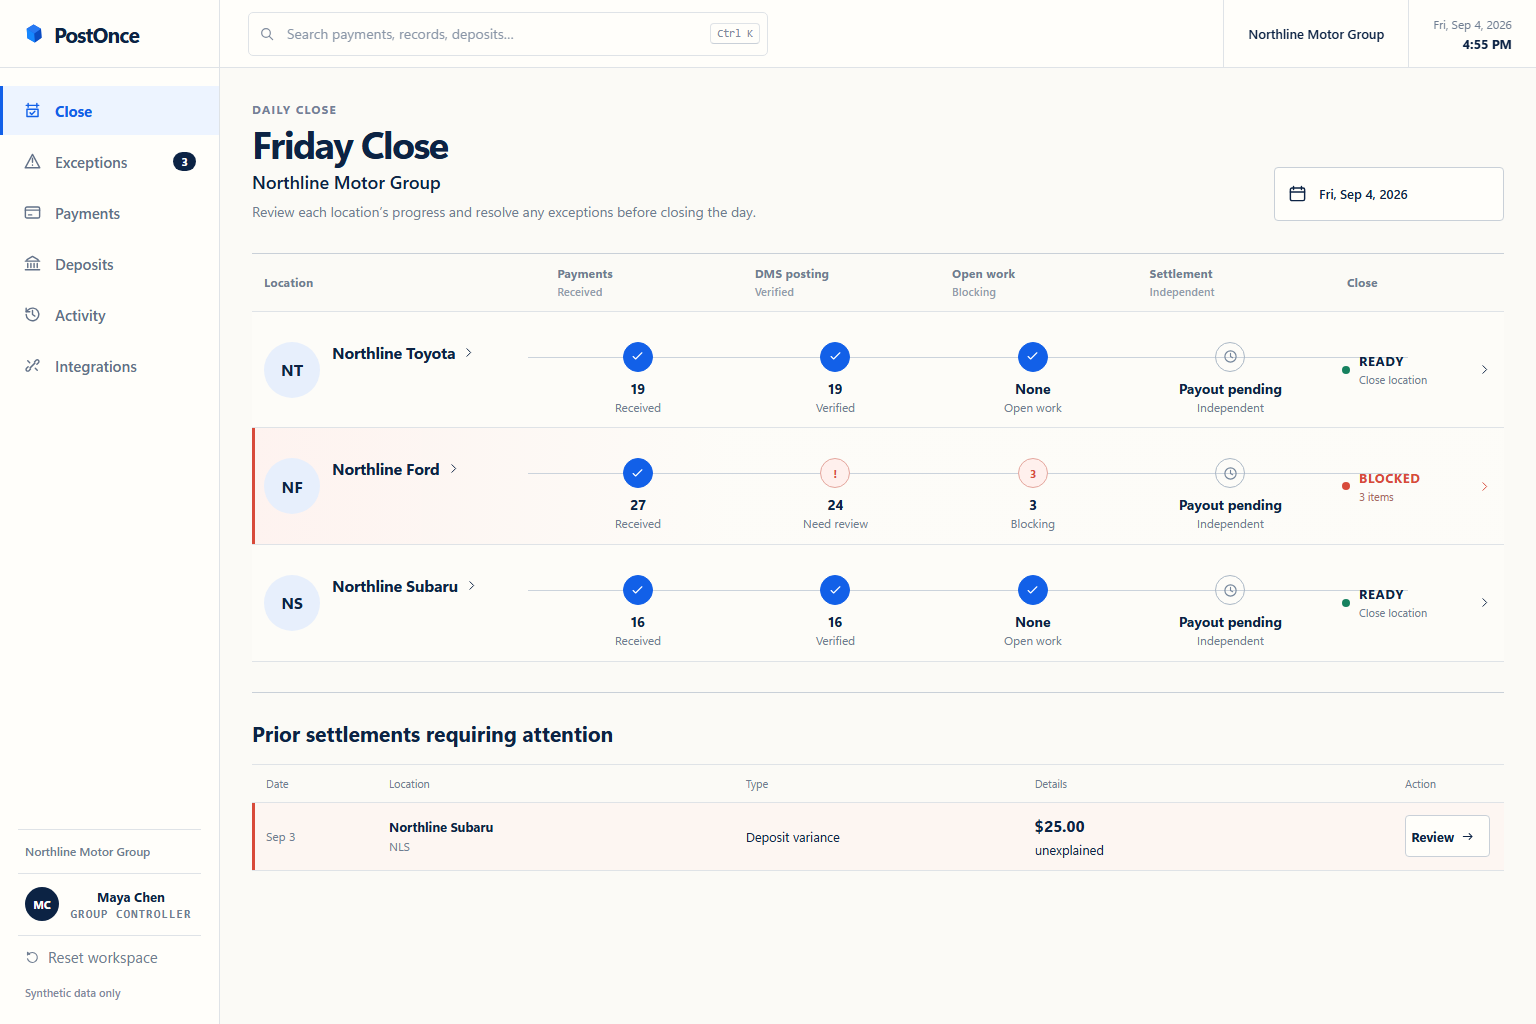
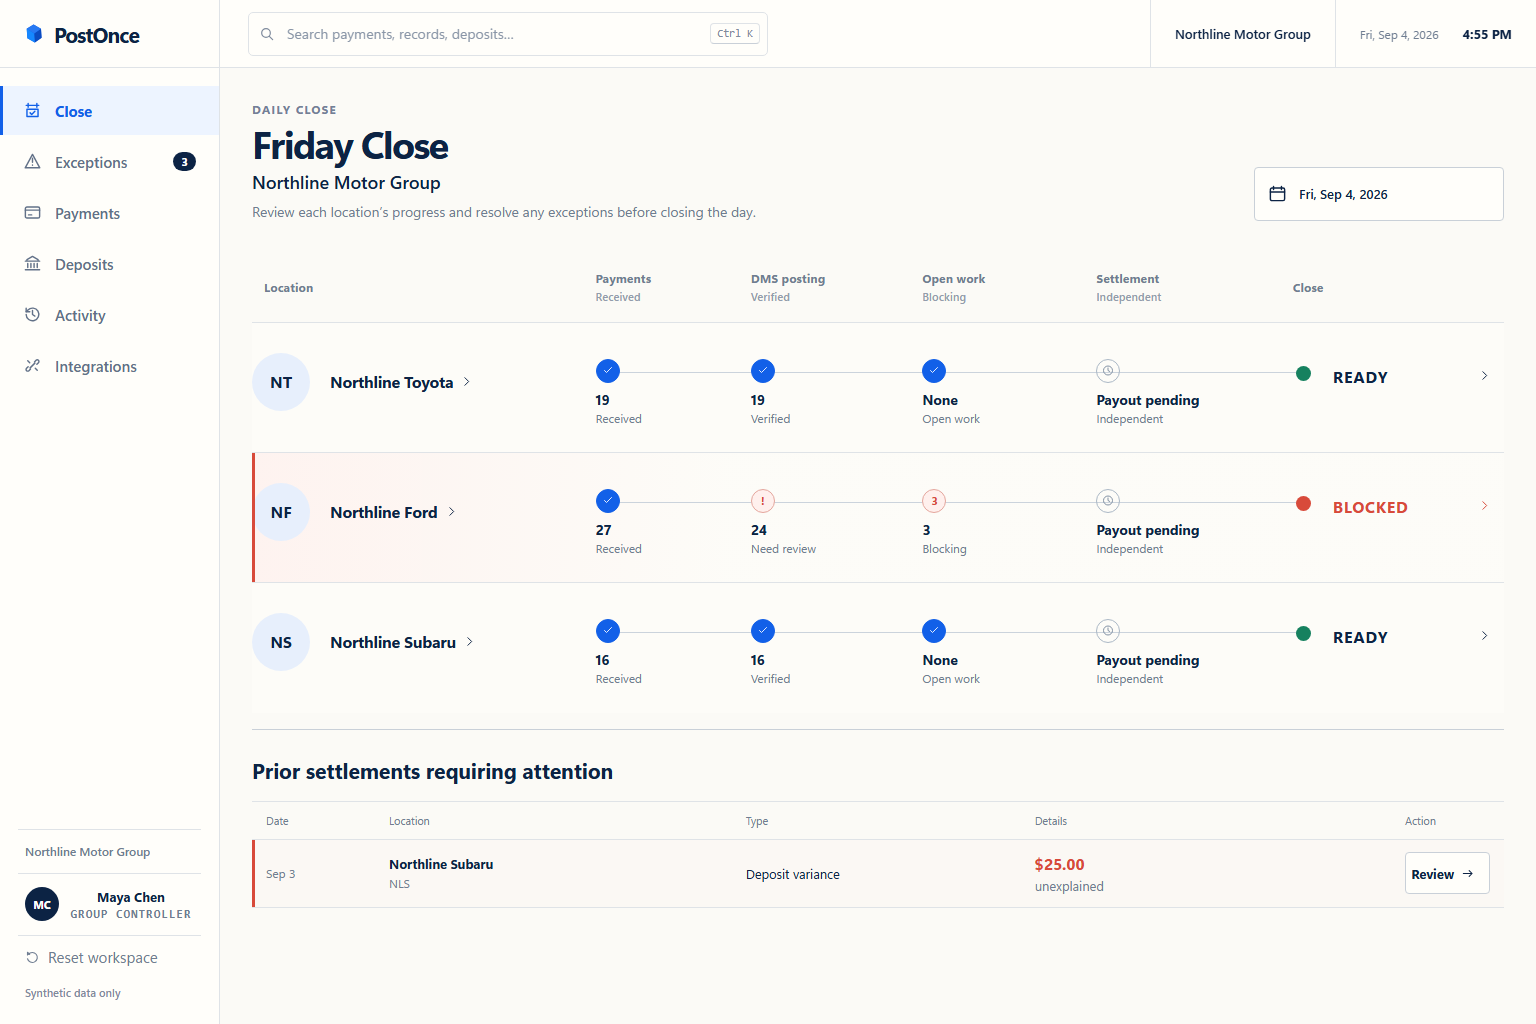
fix(web): align close and exception rails

diff --git a/apps/web/src/product/reference.css b/apps/web/src/product/reference.css
@@ -512,10 +512,12 @@
   padding: 10px 14px;
   border-bottom: 1px solid var(--po-line);
   box-shadow: inset 3px 0 var(--po-red);
-  background: rgba(255, 240, 237, .42);
+  background: rgba(255, 240, 237, .16);
   font-size: 13px;
 }
 .po-prior-settlement-row > div { display: flex; align-items: flex-start; flex-direction: column; gap: 3px; }
+.po-prior-settlement-row > span:nth-of-type(2) { display: flex; flex-direction: column; gap: 3px; color: var(--po-muted); }
+.po-prior-settlement-row > span:nth-of-type(2) .po-money { color: var(--po-red); font-weight: 650; }
 .po-prior-settlement-row time,
 .po-prior-settlement-row small { color: var(--po-muted); font-size: 12px; }
 .po-prior-settlement-row > b { font-size: 13px; }
@@ -586,8 +588,8 @@
 .po-filter-menu .po-filterbar select { width: 100%; min-width: 0; font-size: 13px; }
 .po-work-slips { border-top: 0; }
 .po-work-slip {
-  grid-template-columns: 145px 235px minmax(280px, 1fr) 130px 105px;
-  min-height: 140px;
+  grid-template-columns: 18.5% 21.5% minmax(0, 1fr) 13% 13.5%;
+  min-height: 160px;
   border-right: 0;
   border-bottom: 1px solid var(--po-line);
   border-left: 3px solid var(--po-amber);
@@ -628,10 +630,84 @@
 .po-work-slip__age svg { width: 17px; color: #7890ad; }
 .po-work-slip__age strong { color: var(--po-ink); font: 650 14px/1 var(--po-sans); }
 .po-work-slip__age strong { white-space: nowrap; }
-.po-work-slip__review { align-items: flex-end; gap: 8px; color: var(--po-blue); }
+.po-work-slip__review {
+  align-items: center;
+  flex-direction: row !important;
+  justify-content: flex-end !important;
+  gap: 14px;
+  color: var(--po-blue);
+  white-space: nowrap;
+}
 .po-work-slip__review > span { font-size: 14px; font-weight: 650; }
-.po-work-slip__review svg { width: 17px; }
-.po-work-slip__review small { color: var(--po-muted); font-size: 10px; text-align: right; }
+.po-work-slip__review svg { width: 18px; flex: 0 0 auto; }
+
+@media (min-width: 1241px) {
+  .po-topbar__date {
+    align-items: center;
+    flex-direction: row;
+    gap: 24px;
+  }
+  .po-close-board { border-top: 0; }
+  .po-date-switcher { min-width: 250px; }
+  .po-close-board__legend,
+  .po-close-rail { grid-template-columns: 26% 12.4% 13.7% 13.9% 15.7% 18.3%; }
+  .po-close-board__legend { min-height: 70px; }
+  .po-close-rail { min-height: 130px; }
+  .po-close-rail:last-child { border-bottom: 0; }
+  .po-close-rail::after {
+    top: 49px;
+    right: calc(18.3% - 28.5px);
+    left: calc(26% + 30px);
+  }
+  .po-close-rail > header.po-close-location {
+    grid-template-columns: 58px 1fr;
+    align-content: start;
+    align-items: center;
+    gap: 20px;
+    min-height: 0;
+    padding: 30px 18px 0 0;
+  }
+  .po-location-avatar { width: 58px; height: 58px; }
+  .po-close-step {
+    align-items: flex-start;
+    padding: 36px 9px 12px 18px;
+    text-align: left;
+  }
+  .po-step-icon { width: 24px; height: 24px; flex-basis: 24px; }
+  .po-step-icon svg { width: 12px; }
+  .po-close-step > div { align-items: flex-start; }
+  .po-close-action {
+    align-items: flex-start;
+    padding: 35px 8px 0 16px;
+  }
+  .po-close-action--closed {
+    align-items: center;
+    padding-top: 0;
+  }
+  .po-close-endpoint {
+    grid-template-columns: 15px 1fr 13px;
+    align-items: start;
+    gap: 22px;
+  }
+  .po-close-endpoint > i { width: 15px; height: 15px; }
+  .po-close-endpoint strong { font-size: 16px; }
+  .po-prior-settlements { margin-top: 16px; }
+  .po-exceptions-page { padding-top: 12px; }
+  .po-exceptions-page .po-back-link { margin-bottom: 9px; }
+  .po-exceptions-heading .po-filter-menu {
+    align-self: flex-start;
+    margin-top: 24px;
+  }
+  .po-work-slip > div { padding: 28px 32px; }
+  .po-work-slip__amount { padding-right: 24px !important; padding-left: 44px !important; }
+  .po-work-slip__body { padding-right: 24px !important; padding-left: 36px !important; }
+  .po-work-slip__age { padding-right: 8px !important; padding-left: 8px !important; }
+  .po-work-slip__review { padding-right: 20px !important; padding-left: 16px !important; }
+  .po-work-slip + .po-work-slip {
+    margin-top: 24px;
+    border-top: 1px solid var(--po-line);
+  }
+}
 
 /* 03 — EX-104 decision bench */
 .po-decision-page { padding-top: 28px; }
@@ -1146,7 +1222,13 @@
   .po-close-rail > header.po-close-location { grid-column: 1 / -1; min-height: 96px; border-bottom: 1px solid var(--po-line); }
   .po-close-step { min-height: 112px; padding-top: 32px; border-right: 0; }
   .po-close-action { grid-column: 1 / -1; min-height: 64px; border-top: 1px solid var(--po-line); }
-  .po-close-endpoint { max-width: 240px; }
+  .po-close-endpoint {
+    grid-template-columns: 12px max-content 13px;
+    justify-content: center;
+    gap: 14px;
+    max-width: 240px;
+  }
+  .po-close-endpoint > i { width: 12px; height: 12px; }
   .po-prior-settlements__legend { display: none; }
   .po-prior-settlement-row { grid-template-columns: 80px 1fr auto; }
   .po-prior-settlement-row > span:nth-of-type(1),

diff --git a/apps/web/src/product/ProductApp.tsx b/apps/web/src/product/ProductApp.tsx
@@ -397,13 +397,13 @@ export function ClosePage() {
                   <div className={`po-close-step ${close.verifiedPostingCount === close.paymentCount ? 'po-close-step--complete' : 'po-close-step--attention'}`}><span className="po-step-icon">{close.verifiedPostingCount === close.paymentCount ? <Icon name="check" /> : '!'}</span><div><strong>{close.verifiedPostingCount}</strong><p>{close.verifiedPostingCount === close.paymentCount ? 'Verified' : 'Need review'}</p></div></div>
                   <div className={`po-close-step ${exceptions.length ? 'po-close-step--attention' : 'po-close-step--complete'}`}><span className="po-step-icon">{exceptions.length || <Icon name="check" />}</span><div><strong>{exceptions.length || 'None'}</strong><p>{exceptions.length ? 'Blocking' : 'Open work'}</p></div></div>
                   <div className="po-close-step po-close-step--settlement"><span className="po-step-icon"><Icon name={payout.status === 'RECONCILED' ? 'check' : 'clock'} /></span><div><strong>{sentenceCase(payout.status)}</strong><p>Independent</p></div></div>
-                  <div className="po-close-action">
+                  <div className={`po-close-action${close.status === 'CLOSED' ? ' po-close-action--closed' : ''}`}>
                     {close.status === 'CLOSED' && close.attestation ? (
                       <div className="po-attestation" data-close-attestation={rooftop.id} tabIndex={-1}><Icon name="check" /><strong>Closed by {close.closedBy}</strong><small>{localTime(close.closedAt!, true)}</small></div>
                     ) : close.status === 'BLOCKED' ? (
-                      <Link className="po-close-endpoint po-close-endpoint--blocked" aria-label={`${close.blockingExceptionCount} blockers`} to={`/app/exceptions?location=${rooftop.code}&status=OPEN&sort=newest`}><i /><span><strong>Blocked</strong><small>{close.blockingExceptionCount} items</small></span><Icon name="chevron" /></Link>
+                      <Link className="po-close-endpoint po-close-endpoint--blocked" aria-label={`${close.blockingExceptionCount} blockers`} to={`/app/exceptions?location=${rooftop.code}&status=OPEN&sort=newest`}><i /><span><strong>Blocked</strong></span><Icon name="chevron" /></Link>
                     ) : (
-                      <button className="po-close-endpoint" aria-label="Close location" onClick={() => setConfirming(rooftop.id)}><i /><span><strong>Ready</strong><small>Close location</small></span><Icon name="chevron" /></button>
+                      <button className="po-close-endpoint" aria-label="Close location" onClick={() => setConfirming(rooftop.id)}><i /><span><strong>Ready</strong></span><Icon name="chevron" /></button>
                     )}
                   </div>
                 </article>
@@ -427,12 +427,6 @@ export function ClosePage() {
 
 function exceptionAge(state: WorkspaceState, exception: DemoException): number {
   return Math.max(0, Math.round((Date.parse(state.metadata.workspaceAsOf) - Date.parse(exception.openedAt)) / 60_000));
-}
-
-function exceptionActionLabel(exception: DemoException): string {
-  if (exception.type === 'UNMATCHED_REFUND') return 'Link original payment';
-  if (exception.type === 'SPLIT_ALLOCATION') return 'Complete split tender';
-  return 'Choose a record';
 }
 
 export function ExceptionsPage() {
@@ -486,7 +480,7 @@ export function ExceptionsPage() {
                   <div className="po-work-slip__amount"><Money cents={payment.kind === 'REFUND' ? -payment.amountCents : payment.amountCents} signed={payment.kind === 'REFUND'} /><strong>{payment.customerLabel}</strong><small>{payment.id} · {payment.methodType} •••• {payment.cardLast4}</small></div>
                   <div className="po-work-slip__body"><h2>{exception.title}</h2><p>{exception.summary}</p></div>
                   <div className="po-work-slip__age"><Icon name="clock" /><strong>{exceptionAge(state, exception)} min ago</strong></div>
-                  <div className="po-work-slip__review"><span>Review</span><Icon name="arrow" /><small>{exceptionActionLabel(exception)}</small></div>
+                  <div className="po-work-slip__review"><span>Review</span><Icon name="arrow" /></div>
                 </Link>
               );
             })}

diff --git a/apps/web/e2e/demo.spec.ts b/apps/web/e2e/demo.spec.ts
@@ -193,6 +193,64 @@ test('controller completes the canonical close and reconciliation journey', asyn
   await assertNoPageOverflow(page);
 });
 
+test('desktop reference rails keep their terminal actions aligned', async ({ page }) => {
+  await page.setViewportSize({ width: 1536, height: 1024 });
+  await page.goto('/app/close');
+  await expect(page.getByRole('heading', { name: 'Friday Close' })).toBeVisible();
+
+  const closeGeometry = await page.locator('.po-close-rail').first().evaluate((rail) => {
+    const bounds = rail.getBoundingClientRect();
+    const centers = [...rail.querySelectorAll<HTMLElement>('.po-step-icon')].map((node) => {
+      const rect = node.getBoundingClientRect();
+      return { x: rect.x + rect.width / 2, y: rect.y + rect.height / 2, width: rect.width };
+    });
+    const terminal = rail.querySelector<HTMLElement>('.po-close-endpoint > i')!.getBoundingClientRect();
+    const chevron = rail.querySelector<SVGElement>('.po-close-endpoint svg')!.getBoundingClientRect();
+    return {
+      height: bounds.height,
+      centers,
+      terminal: { x: terminal.x + terminal.width / 2, y: terminal.y + terminal.height / 2, width: terminal.width },
+      chevronX: chevron.x,
+    };
+  });
+
+  expect(closeGeometry.height).toBeGreaterThanOrEqual(129);
+  expect(closeGeometry.centers.map(({ x }) => Math.round(x))).toEqual([608, 763, 934, 1108]);
+  expect(closeGeometry.centers.every(({ width }) => width === 24)).toBe(true);
+  expect(Math.abs(closeGeometry.centers[0].y - closeGeometry.terminal.y)).toBeLessThan(4);
+  expect(Math.round(closeGeometry.terminal.x)).toBe(1303);
+  expect(closeGeometry.terminal.width).toBe(15);
+  expect(closeGeometry.chevronX).toBeGreaterThan(1477);
+  await expect(page.locator('.po-close-endpoint small')).toHaveCount(0);
+  await assertNoPageOverflow(page);
+
+  await page.goto('/app/exceptions?location=NLF&status=OPEN&sort=newest');
+  await expect(page.getByRole('heading', { name: 'Northline Ford' })).toBeVisible();
+  const exceptionGeometry = await page.locator('.po-work-slip').evaluateAll((rows) => rows.map((row) => {
+    const bounds = row.getBoundingClientRect();
+    const tracks = [...row.children].map((child) => child.getBoundingClientRect().width / bounds.width);
+    const label = row.querySelector<HTMLElement>('.po-work-slip__review > span')!.getBoundingClientRect();
+    const arrow = row.querySelector<SVGElement>('.po-work-slip__review svg')!.getBoundingClientRect();
+    return {
+      top: bounds.top,
+      bottom: bounds.bottom,
+      height: bounds.height,
+      tracks,
+      actionCenterDelta: Math.abs((label.top + label.height / 2) - (arrow.top + arrow.height / 2)),
+    };
+  }));
+
+  expect(exceptionGeometry).toHaveLength(3);
+  expect(exceptionGeometry[0].height).toBeGreaterThanOrEqual(159);
+  expect(exceptionGeometry[1].top - exceptionGeometry[0].bottom).toBeGreaterThanOrEqual(23);
+  [0.185, 0.215, 0.335, 0.13, 0.135].forEach((expectedRatio, index) => {
+    expect(exceptionGeometry[0].tracks[index]).toBeCloseTo(expectedRatio, 2);
+  });
+  expect(exceptionGeometry.every(({ actionCenterDelta }) => actionCenterDelta < 1)).toBe(true);
+  await expect(page.locator('.po-work-slip__review small')).toHaveCount(0);
+  await assertNoPageOverflow(page);
+});
+
 test('product shell remains usable at narrow widths', async ({ page }) => {
   for (const width of [1240, 1181, 1000, 901, 801]) {
     await page.setViewportSize({ width, height: 900 });

diff --git a/apps/web/src/App.test.tsx b/apps/web/src/App.test.tsx
@@ -72,7 +72,7 @@ describe('PostOnce product experience', () => {
     expect(screen.getByRole('heading', { name: 'Northline Ford' })).toBeTruthy();
     const blockedEndpoint = screen.getByRole('link', { name: '3 blockers' });
     expect(blockedEndpoint.getAttribute('href')).toBe('/app/exceptions?location=NLF&status=OPEN&sort=newest');
-    expect(screen.getByText('3 items')).toBeTruthy();
+    expect(blockedEndpoint.textContent).toBe('Blocked');
     expect(screen.getAllByText('Payout pending').length).toBeGreaterThan(0);
     expect(screen.getAllByText('Independent').length).toBe(4);
     fireEvent.keyDown(window, { key: 'k', ctrlKey: true });
